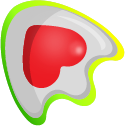
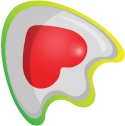
Menu figures

diff --git a/src/css/101Components/_heroMenu.scss b/src/css/101Components/_heroMenu.scss
@@ -1,5 +1,16 @@
 .wrapper-heroMenu {
     .heroMenu { position: relative; max-width: 1640px; margin: 0 auto; 
         img { width:100%; }
+
+        .figure { display:block; position:absolute; bottom:3%; left: 50%; width:100px; height:100px; 
+            &.about { width:11.58%; padding-top:14.7%; background: url('../images/HeroMenu/img_homepage_menu_01-About.png') center top no-repeat; background-size:100% auto; left:8.2%; bottom:3%; }
+            &.resource { width:13.3%; padding-top:14.2%; background: url('../images/HeroMenu/img_homepage_menu_02-Resource.png') center top no-repeat; background-size:100% auto; left:21.00%; bottom:0; }
+            &.featured { width:13.3%; padding-top:14.65%; background: url('../images/HeroMenu/img_homepage_menu_03-Featured.png') center top no-repeat; background-size:100% auto; left:36.5%; bottom:0.5%; }
+            &.research { width:10.68%; padding-top:14.55%; background: url('../images/HeroMenu/img_homepage_menu_04-Research.png') center top no-repeat; background-size:100% auto; left:53%; bottom:1.5%; }
+            &.event { width:14.45%; padding-top:11.52%; background: url('../images/HeroMenu/img_homepage_menu_05-Ourevent.png') center top no-repeat; background-size:100% auto; left:65.9%; bottom:-1.2%;  }
+            &.external { width:8.30%; padding-top:10.51%; background: url('../images/HeroMenu/img_homepage_menu_06-External.png') center top no-repeat; background-size:100% auto; left:83.5%; bottom:1.5%; }
+
+            &:hover { background-position: center bottom; }
+        }
     }
 }

diff --git a/src/components/100Include/HeroMenu.js b/src/components/100Include/HeroMenu.js
@@ -16,7 +16,14 @@ class HeroMenu extends Component {
         return (
             <div className="wrapper-heroMenu">
                 <div className="heroMenu clearfix">
-                    <img src={require('../../images/bg_homepage_menu.png')} alt="" />
+                    <img src={require('../../images/HeroMenu/bg_homepage_menu.png')} alt="" />
+
+                    <div className="figure about"></div>
+                    <div className="figure resource"></div>
+                    <div className="figure featured"></div>
+                    <div className="figure research"></div>
+                    <div className="figure event"></div>
+                    <div className="figure external"></div>
                 </div>
             </div>
         );
